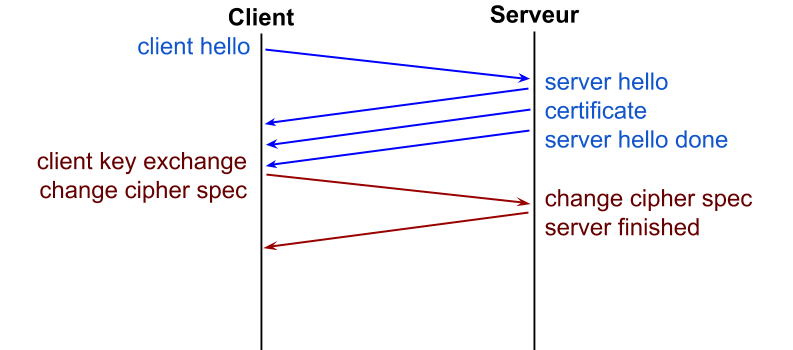
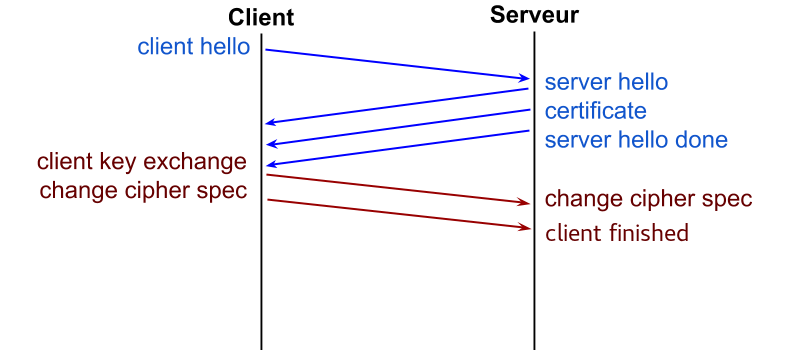
Slides update (TLS 1.3)

Changed region(s): [[0.3934, 0.6, 0.9079, 0.6857], [0.3329, 0.5714, 0.454, 0.6], [0.3329, 0.6857, 0.3934, 0.7143]]

diff --git a/index.html b/index.html
@@ -40,7 +40,8 @@
             <li><i class="fa fa-user nomargin"> </i>Grégory Paul
             <li><i class="fa fa-briefcase nomargin"></i> Développeur Web<br>
                 (<a href="https://twitter.com/search?q=%23javascript%20from%3Apaulgreg&src=typd">JavaScript</a>,
-                <a href="https://twitter.com/search?q=%23security%20from%3Apaulgreg&src=typd">sécurité</a>)
+                <a href="https://twitter.com/search?q=%23security%20from%3Apaulgreg&src=typd">sécurité</a>,
+                <a href="https://twitter.com/search?l=&q=%23diy%20OR%20%23hack%20from%3Apaulgreg&src=typd">hack/DIY</a>)
             <li>
                 <a href="https://paulgreg.me/" rel="me">https://paulgreg.me</a>
                 <a href="https://twitter.com/paulgreg" rel="me"><i class="fa fa-twitter nomargin"></i></a>
@@ -280,13 +281,17 @@
                 <li class="next"><i class="fa fa-code-fork"></i><span class="unsecure">TLS 1.1</span> / <a href="https://tools.ietf.org/html/rfc4346">RFC 4346</a> en 2006 <small>(<i class="fa fa-plus-circle nomargin"></i> protections contre les attaques sur <abbr title="Cipher Block Chaining">CBC</abbr>)</small>,
                 <li class="next"><i class="fa fa-code-fork"></i><span class="safe">TLS 1.2</span> / <a href="https://tools.ietf.org/html/rfc5246">RFC 5246</a> en 2008 <small>(<i class="fa fa-plus-circle nomargin"></i> améliorations de sécurité)</small>,
             <li class="next"><i class="fa fa-code-fork"></i>Mise à jour sur TLS 1.2 en 2011/ <a href="https://tools.ietf.org/html/rfc6176">RFC 6176</a> <small>(<i class="fa fa-ban nomargin"></i> compatibilité SSL)</small>,
-            <li class="next"><i class="fa fa-code-fork"></i><span class="safe">TLS 1.3</span> / <a href="https://tools.ietf.org/html/draft-ietf-tls-tls13-10">brouillon</a> en cours
+            <li class="next"><i class="fa fa-code-fork"></i><span class="safe">TLS 1.3</span> / <a href="http://www.rfc-editor.org/rfc/rfc8446.txt">RFC 8446</a> en 2018
                 <small>(<i class="fa fa-ban nomargin"></i> compression,
                 <i class="fa fa-ban nomargin"></i> renégociation,
                 <i class="fa fa-ban nomargin"></i> MD5,
+                <i class="fa fa-ban nomargin"></i> SHA1,
                 <i class="fa fa-ban nomargin"></i> RC4,
-                <i class="fa fa-plus-circle nomargin"></i> optimisation réseau,
-                <i class="fa fa-plus-circle nomargin"></i> SHA-224)</small>.
+                <i class="fa fa-plus-circle nomargin"></i> <abbr title="Perfect Forward Secrecy">PFS</abbr> obligatoire,
+                <i class="fa fa-plus-circle nomargin"></i> optimisation réseau (<abbr title="zero round trip time">0-RTT</abbr>),
+                <i class="fa fa-plus-circle nomargin"></i> SHA-256,
+                <i class="fa fa-plus-circle nomargin"></i> Courbe elliptique 25519 &amp; 448)</small>.
+
         </ul>
         <devoxx-footer></devoxx-footer>
 	</div></section>
@@ -382,7 +387,7 @@
 
 	<section id="handshake-title-bis" class="slide tell"><div>
         <slide-progression open="handshake"></slide-progression>
-        <h2><i class="handshake"></i> Poignée de main<br/><small>(<a href="http://www.moserware.com/2009/06/first-few-milliseconds-of-https.html">en détails</a>)</small></h2>
+        <h2><i class="handshake"></i> Poignée de main<br/><small>TLS 1.2 (<a href="http://www.moserware.com/2009/06/first-few-milliseconds-of-https.html">en détails</a>)</small></h2>
         <devoxx-footer></devoxx-footer>
 	</div></section>
 
@@ -462,7 +467,7 @@
 
 	<section id="handshake-key-exchange" class="slide"><div>
         <slide-progression open="handshake"></slide-progression>
-        <h2>3. Pré-clé chiffré avec la clé publique du serveur</h2>
+        <h2>3. Pré-clé chiffrée <small>avec la clé publique du serveur</small></h2>
         <figure class="sidebyside handshake">
             <figcaption>
                 <img src="pictures/handshake/5-handshake.png" alt="handshake : key exchange" />
@@ -903,7 +908,8 @@
             <li class="next">2014 : <a href="http://www.cve.mitre.org/cgi-bin/cvename.cgi?name=2014-1266">CVE-2014-1266</a> : <a href="https://opensource.apple.com/source/Security/Security-55471/libsecurity_ssl/lib/sslKeyExchange.c?txt">goto fail</a>,
             <a href="https://opensource.apple.com/source/Security/Security-55471/libsecurity_ssl/lib/sslKeyExchange.c" class="clear"><img class="gotofail" src="pictures/gotofail.png" alt="" /></a>
             <li class="next">2014 : <a href="https://cve.mitre.org/cgi-bin/cvename.cgi?name=CVE-2014-0092">CVE-2014-0092</a> : <a href="https://www.gitorious.org/gnutls/gnutls/commit/6aa26f78150ccbdf0aec1878a41c17c41d358a3b">goto cleanup</a> sur GnuTLS,
-            <li class="next">2015 : <a href="http://www.cve.mitre.org/cgi-bin/cvename.cgi?name=CVE-2014-0160">CVE-2014-0160</a> : <i class="fa fa-heartbeat nomargin"></i> <a href="http://heartbleed.com/">heartbleed</a> : le serveur laisse fuiter quelques octets en RAM...
+            <li class="next">2015 : <a href="https://cve.mitre.org/cgi-bin/cvename.cgi?name=CVE-2014-0160">CVE-2014-0160</a> : <i class="fa fa-heartbeat nomargin"></i> <a href="http://heartbleed.com/">heartbleed</a> : fuitle de quelques octets en RAM,
+            <li class="next">2018 : <a href="https://cve.mitre.org/cgi-bin/cvename.cgi?name=CVE-2017-5753">CVE-2017-5753</a>, <a href="https://cve.mitre.org/cgi-bin/cvename.cgi?name=CVE-2017-5715">CVE-2017-5715</a> : <a href="https://meltdownattack.com/">Spectre &amp; Meltdown</a> : fuite de la mémoire cache du processeur...
         </ul>
         <devoxx-footer></devoxx-footer>
     </div></section>
@@ -992,21 +998,6 @@
             <li class="next"><i class="fa fa-user-secret"></i> Évite une interception future <small>(sslstrip)</small>,
             <li class="next"><i class="fa fa-gift"></i> Pré-chargement dans les navigateurs : <a href="https://code.google.com/p/chromium/codesearch#chromium/src/net/http/transport_security_state_static.json">transport_security_state_static.json</a>,
             <li class="next"><i class="fa fa-exclamation-triangle"></i> Que se passe-t-il si votre certificat expire ou si le port 443 ne répond plus ?
-        </ul>
-        <devoxx-footer></devoxx-footer>
-    </div></section>
-
-	<section id="certificate-public-key-pinning" class="slide"><div>
-        <slide-progression open="apres"></slide-progression>
-		<h2>CPKP : Certificate Public Key Pinning <a href="http://tools.ietf.org/html/rfc7469">RFC7469</a></h2>
-        <pre><code>Public-Key-Pins: pin-sha256=""; pin-sha256=""; max-age=259200</code></pre>
-        <ul class="icons">
-            <li><i class="fa fa-thumb-tack"></i> Entête HTTP "épinglant" une liste de condensat (hash) de certificats (AC racine, AC intermédiaire ou feuille),
-            <li class="next"><i class="fa fa-cutlery"></i> Connexion uniquement si le condensat est trouvé dans la chaîne,
-            <li class="next"><i class="fa fa-user-secret"></i> Évite qu’une autre AC ne signe son certificat <small>(<a href="https://www.nsa.gov/">www.nsa.gov</a> signé par <abbr title="China Internet Network Information Center">CNNIC</abbr>)</small>,
-            <li class="next"><i class="fa fa-gift"></i> Pré-chargement dans les navigateurs : <a href="https://code.google.com/p/chromium/codesearch#chromium/src/net/http/transport_security_state_static.h&amp;cl=GROK&amp;gsn=GetDynamicDomainState">transport_security_state_static.h</a>,
-            <li class="next"><i class="fa fa-flag-o"></i> <a href="https://developers.google.com/web/updates/2015/09/HPKP-reporting-with-chrome-46">Commencez par</a> : <code>Public-Key-Pins-Report-Only: report-uri</code>
-            <li class="next"><i class="fa fa-exclamation-triangle"></i> <a href="https://noncombatant.org/2015/05/01/about-http-public-key-pinning/">Plus</a> <a href="https://timtaubert.de/blog/2014/10/http-public-key-pinning-explained/">compliqué</a> à mettre en place et plus risqué ; à reserver aux sites sensibles.
         </ul>
         <devoxx-footer></devoxx-footer>
     </div></section>
@@ -1364,6 +1355,21 @@
         </ul>
     </div></section>
 
+	<section id="http-public-key-pinning" class="slide"><div>
+        <slide-progression open="annexes"></slide-progression>
+		<h2>HPKP : HTTP Public Key Pinning <a href="http://tools.ietf.org/html/rfc7469">RFC7469</a></h2>
+        <pre><code>Public-Key-Pins: pin-sha256=""; pin-sha256=""; max-age=259200</code></pre>
+        <ul class="icons">
+            <li><i class="fa fa-warning"></i> <a href="https://raymii.org/s/blog/Chrome_68_is_deprecating_HPKP.html">déprécié depuis Chrome 68</a>,
+            <li class="next"><i class="fa fa-thumb-tack"></i> Entête HTTP "épinglant" une liste de condensat (hash) de certificats (AC racine, AC intermédiaire ou feuille),
+            <li class="next"><i class="fa fa-cutlery"></i> Connexion uniquement si le condensat est trouvé dans la chaîne,
+            <li class="next"><i class="fa fa-user-secret"></i> Évite qu’une autre AC ne signe son certificat <small>(<a href="https://www.nsa.gov/">www.nsa.gov</a> signé par <abbr title="China Internet Network Information Center">CNNIC</abbr>)</small>,
+            <li class="next"><i class="fa fa-gift"></i> Pré-chargement dans les navigateurs : <a href="https://code.google.com/p/chromium/codesearch#chromium/src/net/http/transport_security_state_static.h&amp;cl=GROK&amp;gsn=GetDynamicDomainState">transport_security_state_static.h</a>,
+            <li class="next"><i class="fa fa-flag-o"></i> <a href="https://developers.google.com/web/updates/2015/09/HPKP-reporting-with-chrome-46">Commencez par</a> : <code>Public-Key-Pins-Report-Only: report-uri</code>
+            <li class="next"><i class="fa fa-exclamation-triangle"></i> <a href="https://noncombatant.org/2015/05/01/about-http-public-key-pinning/">Plus</a> <a href="https://timtaubert.de/blog/2014/10/http-public-key-pinning-explained/">compliqué</a> à mettre en place et plus risqué ; à reserver aux sites sensibles.
+        </ul>
+        <devoxx-footer></devoxx-footer>
+    </div></section>
 
 	<p class="badge"><a href="https://github.com/paulgreg/https-slides">Fork me on Github</a></p>
 	<div class="progress"><div></div></div>
